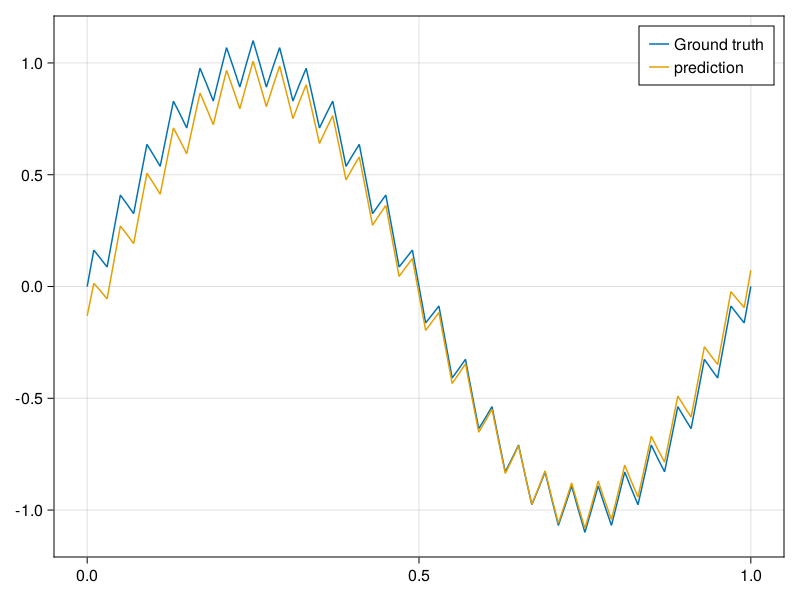
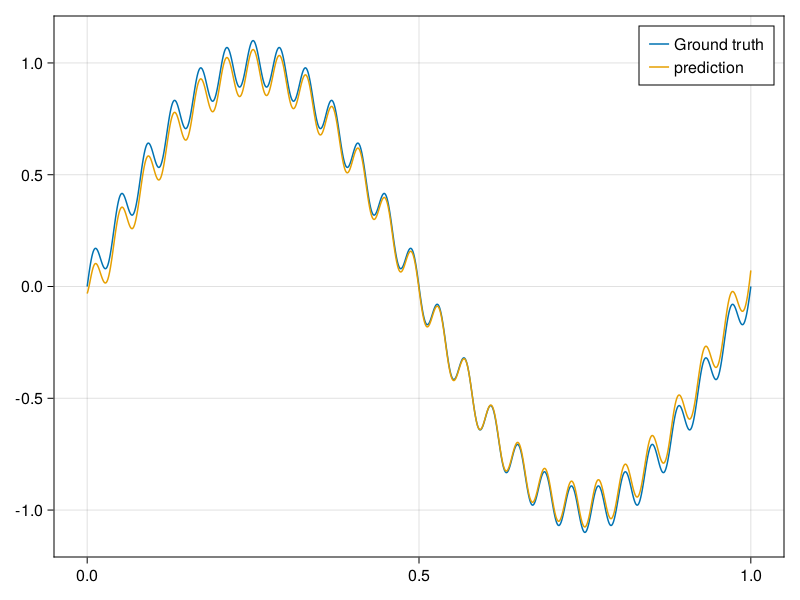
pic

diff --git a/README.md b/README.md
@@ -42,7 +42,7 @@ res = Optimization.solve(prob, BFGS(), maxiters = 500, callback = callback)
 
 using CairoMakie
 phi = discretization.phi
-xs = 0:0.01:1
+xs = 0:0.001:1
 u_true = @. sin(2*pi * xs)+0.1*sin(50*pi*xs)
 us = phi(xs',res.u)
 fig = Figure()
